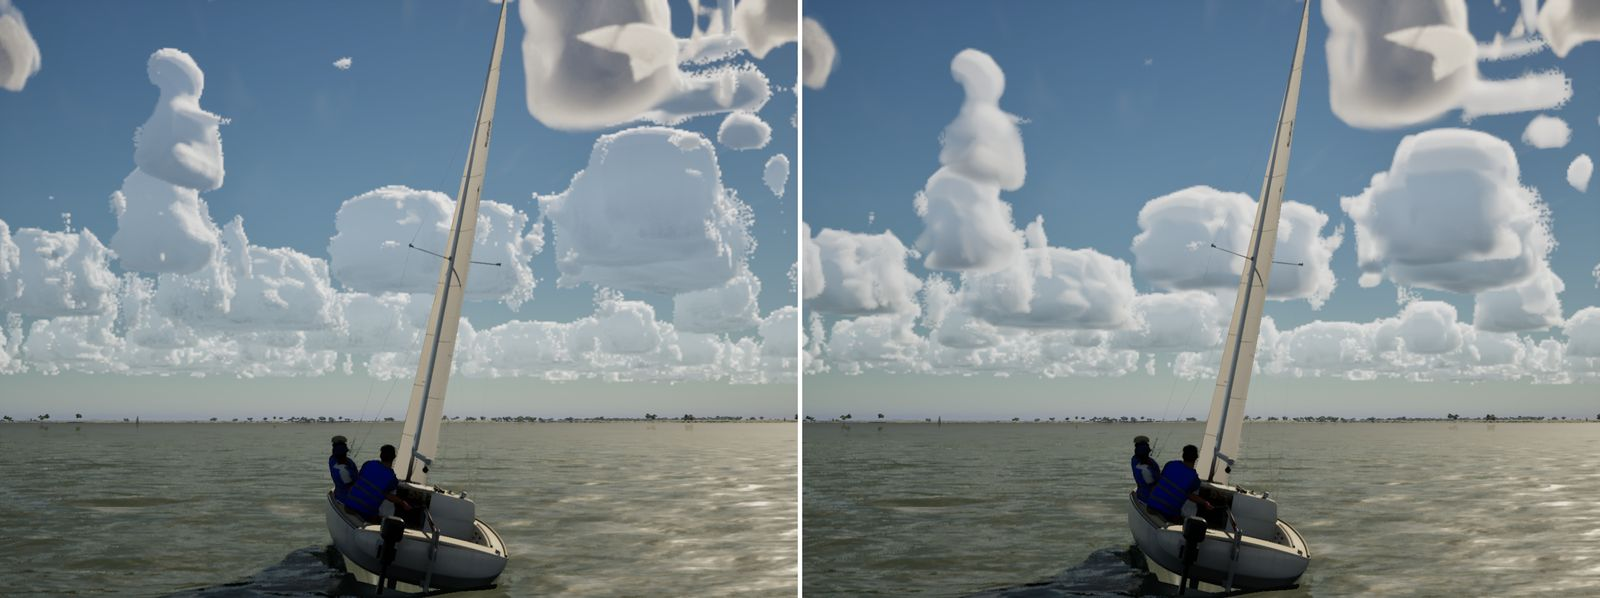
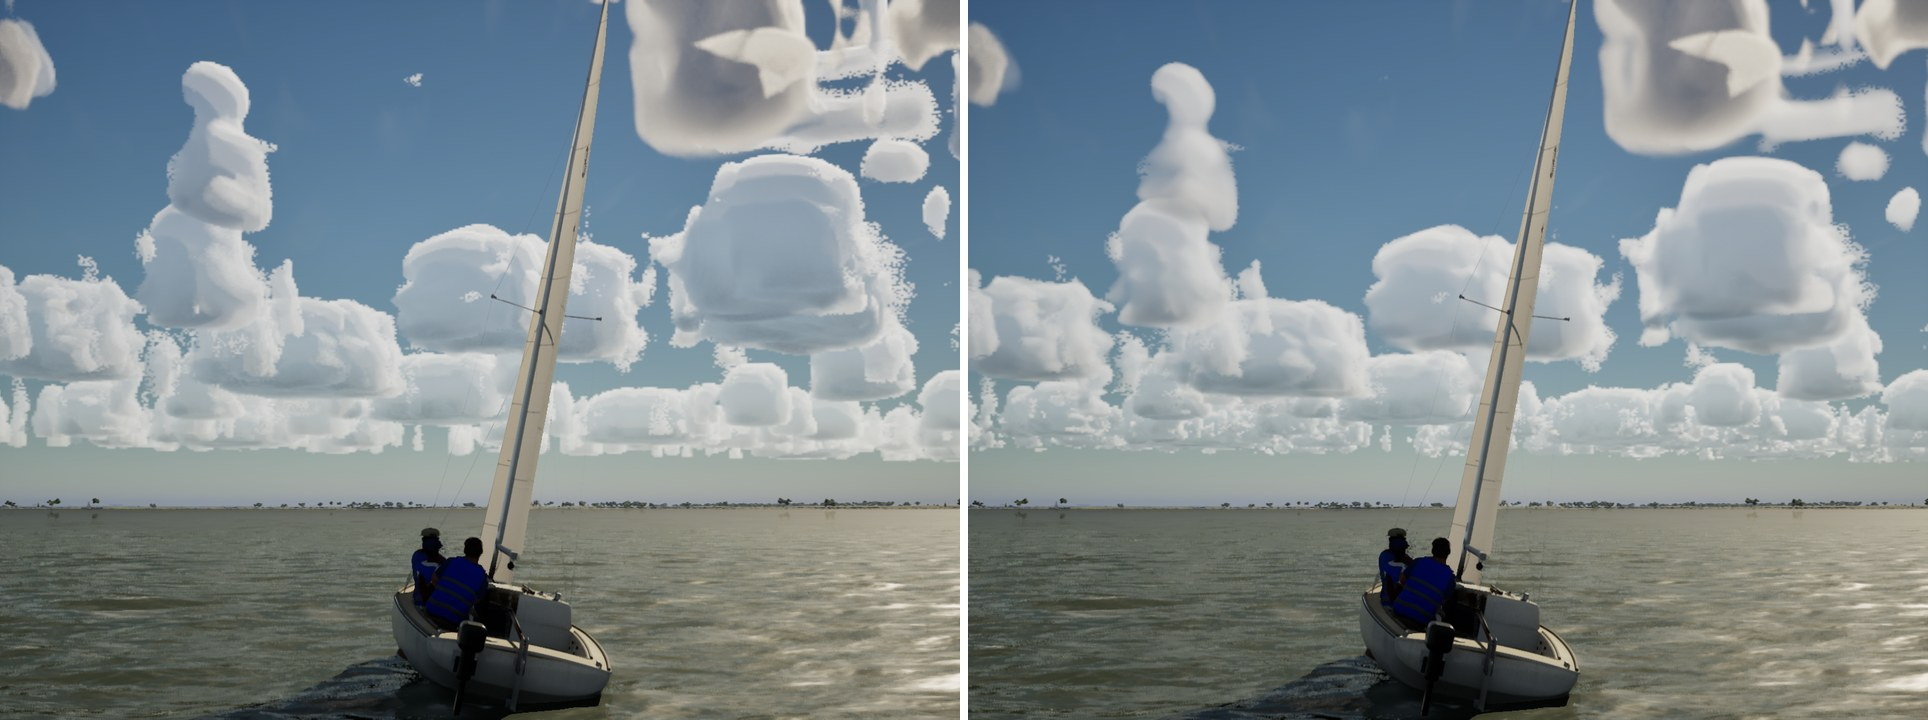
Wisps: stills (main | branch, High, Windows) and costs at 0.1

diff --git a/docs/round-12/wisps/README.md b/docs/round-12/wisps/README.md
@@ -18,8 +18,22 @@ Storms are unchanged: the sky cache still stands aside under a storm, as on main
 
 ## Stills (packaged, High, Windows: `<scene>-high.jpg`; left main, right this branch)
 
-STILLS
+The cameras are `scenes.csv` (packaged Development builds, 16 s captures on Bean's RTX 4090; main 092cadc5).
+
+- **lake-towers, north shore, Kemah.** The cumulus are softer and fluffier: a translucent fringe instead of the lit
+  clay skin, and the frosted speckle along main's outlines is gone.
+- **Texas City.** The softness costs detail here. The near cells lose most of their crisp cauliflower lobes and read
+  as soft rounded masses; the rows farther out keep their shape. Worth a look before merging: at 0.15 more of the
+  lobes stayed.
 
 ## Cost (GPU, 1920x1080, ProfileGPU frames in the measured window, main / this branch)
 
-COSTS
+| | fps | GPU frame, ms | clouds + fog, ms |
+|---|---|---|---|
+| lake-towers, High | 76.6 / 78.3 | 5.01 / 5.30 | 0.38 / 0.34 |
+| lake-towers, Ultra | 74.5 / 69.9 | 7.51 / 8.58 | 1.45 / 1.92 |
+| Texas City, High | 70.5 / 70.2 | 6.31 / 6.36 | 0.33 / 0.34 |
+| Texas City, Ultra | 63.0 / 65.2 | 9.10 / 9.72 | 1.25 / 1.58 |
+
+High is unchanged within the noise. On Ultra the near clouds cost 0.3 to 0.5 ms more. Ultra keeps every near sample
+(3 km at full count), and the thinner vapour lets the march go deeper before it is opaque.
